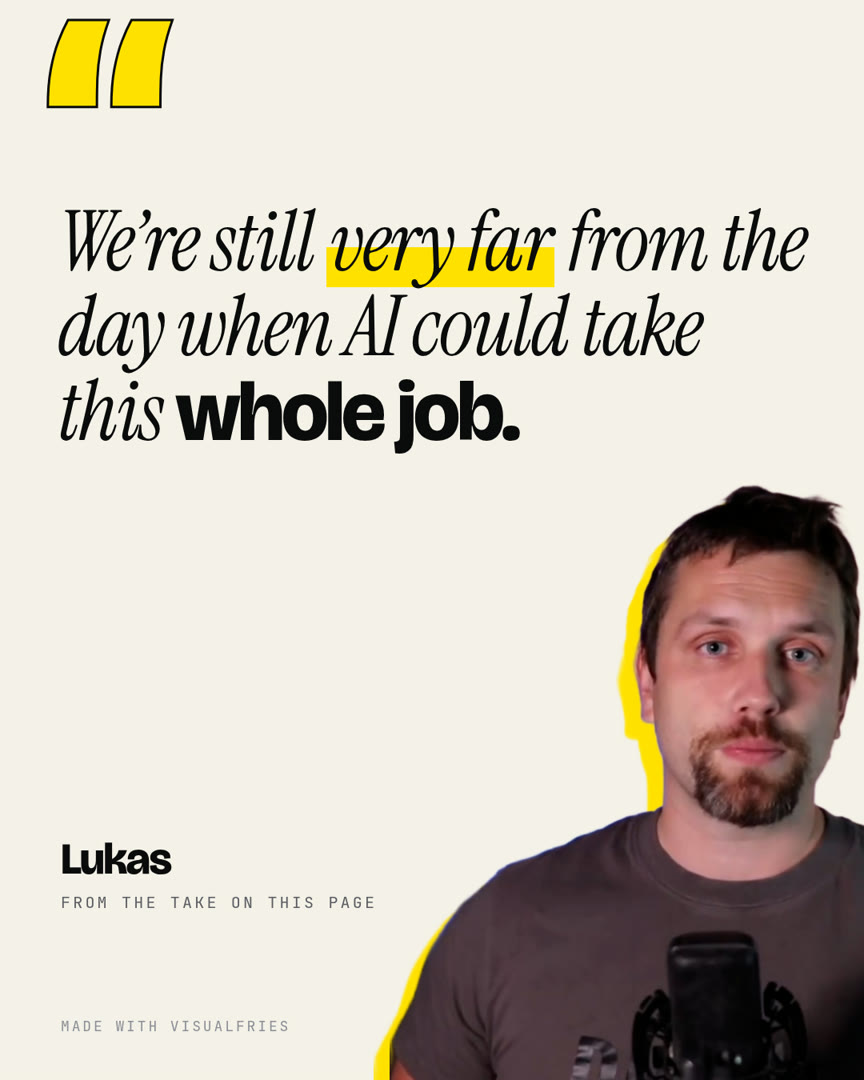
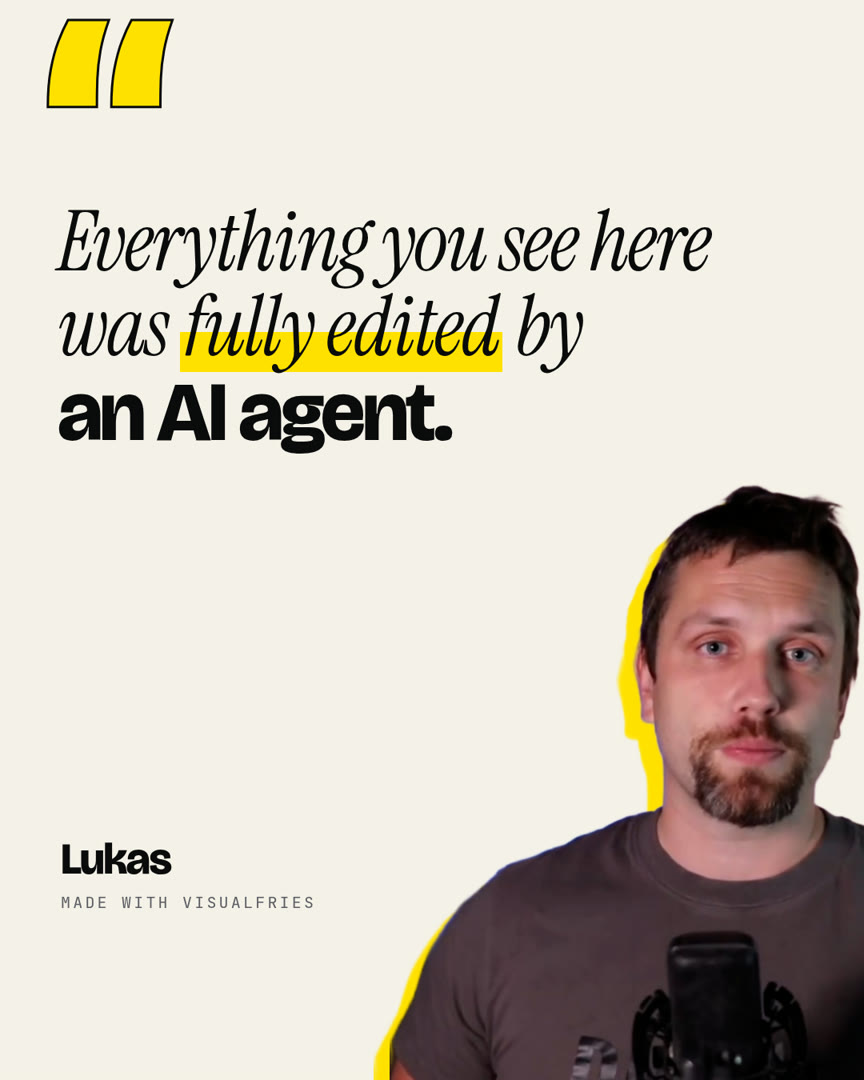
Quote card: "Everything you see here was fully edited by an AI agent." (#69)
Replaces the old "still very far" line, which contradicted the reel's new
closing line. The credit reads "Made with VisualFries" instead of claiming
the line comes from the take, and the duplicate footer tag is gone.

diff --git a/examples/showcase/posts/blocks/Quote.svelte b/examples/showcase/posts/blocks/Quote.svelte
@@ -11,16 +11,15 @@
 <div class="q">
 	<div class="mark display">“</div>
 	<p class="text">
-		We’re still <mark>very far</mark> from the day when AI could take this <em>whole job.</em>
+		Everything you see here was <mark>fully edited</mark> by <em>an AI agent.</em>
 	</p>
 	<div class="by">
 		<b class="display">Lukas</b>
-		<span class="mono">FROM THE TAKE ON THIS PAGE</span>
+		<span class="mono">MADE WITH VISUALFRIES</span>
 	</div>
 	<div class="me" style:left="{1080 - W * 0.78 - box.x * W * 0}px" style:top="{1350 - H + 40}px" style:width="{W}px" style:height="{H}px">
 		<Footage name="talk" layer="subject" class="fill" />
 	</div>
-	<div class="tag mono">made with visualfries</div>
 </div>
 
 <style>
@@ -30,11 +29,10 @@
 	.text { position: absolute; left: 72px; right: 72px; top: 250px; margin: 0; font-family: 'Instrument Serif', serif;
 		font-style: italic; font-size: 104px; line-height: 1.02; letter-spacing: -0.02em; color: #0b0b0c; }
 	mark { background: linear-gradient(transparent 55%, #ffe100 55%, #ffe100 92%, transparent 92%); color: inherit; padding: 0 4px; }
-	em { font-style: normal; font-family: Bricolage, sans-serif; font-weight: 800; letter-spacing: -0.04em; }
+	em { font-style: normal; font-family: Bricolage, sans-serif; font-weight: 800; letter-spacing: -0.04em; white-space: nowrap; }
 	.by { position: absolute; left: 76px; top: 1040px; }
 	.by b { display: block; font-size: 56px; font-weight: 800; letter-spacing: -0.03em; color: #0b0b0c; }
 	.by span { display: block; margin-top: 8px; font-size: 20px; letter-spacing: 0.16em; color: #5b5c63; }
 	.me { position: absolute; filter: drop-shadow(-20px 20px 0 #ffe100); }
 	.me :global(.fill) { width: 100%; height: 100%; display: block; }
-	.tag { position: absolute; left: 76px; bottom: 56px; font-size: 18px; letter-spacing: 0.16em; text-transform: uppercase; color: #8b8d96; }
 </style>

diff --git a/src/site/home.html b/src/site/home.html
@@ -172,7 +172,7 @@
 				<div class="media" data-name="post-quote.jpg" style="--ar:4/5">
 					<img
 						src="/media/v2/post-quote.jpg"
-						alt="Quote card with a line from the take and the cut-out speaker"
+						alt="Quote card: Everything you see here was fully edited by an AI agent, with the cut-out speaker"
 						loading="lazy"
 					/><span class="lab">post · 4:5</span>
 				</div>
